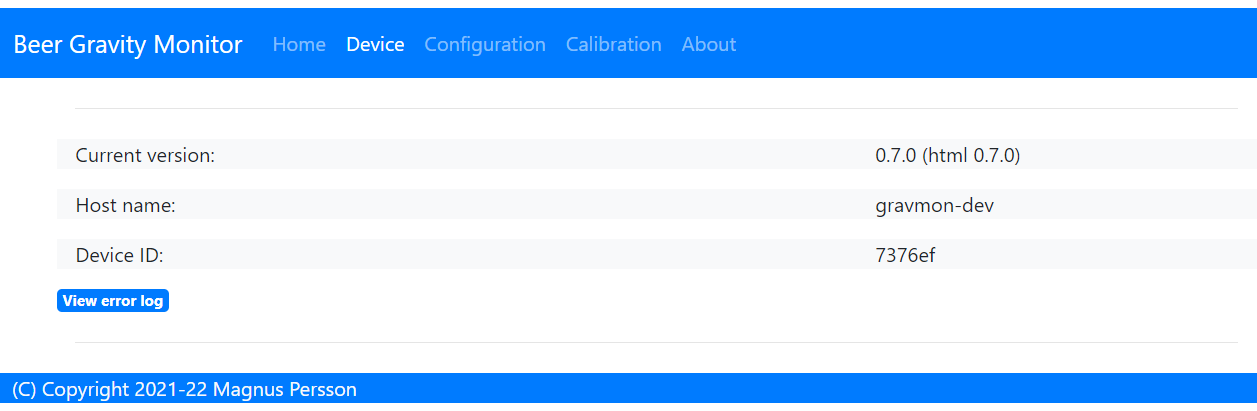
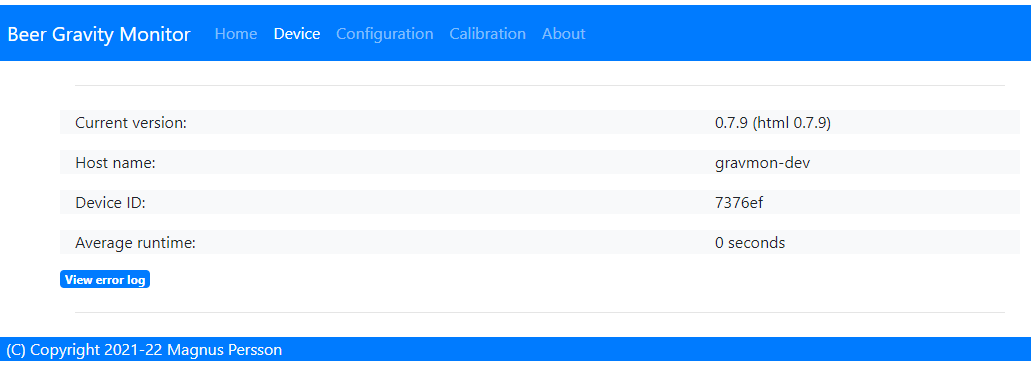
Updated docs

diff --git a/src_docs/source/configuration.rst b/src_docs/source/configuration.rst
@@ -59,6 +59,12 @@ URL: (http://gravmon.local/device)
    This is unique identifier for the device (ESP8266 id), this is required when using the API as an API Key to safeguard 
    against faulty requests. This is the ESP8266 chip ID, so it should be unique.
 
+* **Average runtime:** 
+
+   This shows the average time a gravity measurement takes. Under optimal setting this should be 
+   around 1.5 - 2.0 seconds. If this is higher than 2 seconds this is most likley connected to slow wifi 
+   connection. It will show 0 if data has not been collected yet.
+
 
 Configuration 
 =============
@@ -124,6 +130,11 @@ Push Settings
    Endpoint to send data via http. Default format used :ref:`data-formats-ispindle`. You can customize the format using :ref:`format-editor`.
 
    If you add the prefix `https://` then the device will use SSL when sending data. 
+
+* **Token:**
+
+   The token is included in the iSpindle JSON format and will be used for both HTTP targets. If you 
+   need to have 2 different tokens please use the :ref:`format-editor` to customize the data format. 
 
 * **Brewfather URL:**
 
@@ -260,5 +271,6 @@ Hardware Settings
 .. code-block::
 
    http://192.168.1.1/firmware/gravmon/
+   https://192.168.1.1/firmware/gravmon/
 
 

diff --git a/src_docs/source/releases.rst b/src_docs/source/releases.rst
@@ -6,8 +6,13 @@ Releases
 v0.8.0
 ------
 
-* Added option to set http headers (2 per http endpoint)
+* Added option to set http headers (2 per http endpoint), these can be used for 
+  other formats and authentication with services.
 * Added possibility to view last 10 errors on device page. 
+* Added possibility to define token parameter used in iSpindle format.
+* Added instructions for how to configure integration with Brewspy
+* Logging the runtime, how long a measurement take (last 10 are stored). This can be 
+  used to check how good the wifi connection is and estimate the lifetime when on battery.
 
 v0.7.1
 ------

diff --git a/src_docs/source/services.rst b/src_docs/source/services.rst
@@ -155,3 +155,15 @@ format for the endpoint. Just add you API key after token.
    "battery": ${battery},
    "rssi": ${rssi}
   }
+
+
+Brewspy
++++++++
+
+BrewSpy is a service that can show the history and manage the brew.
+
+You need to enter the Token found in brewspy into the UI under Token and enter the following URL under http.
+
+.. code-block::
+
+   http://brew-spy.com/api/ispindel
